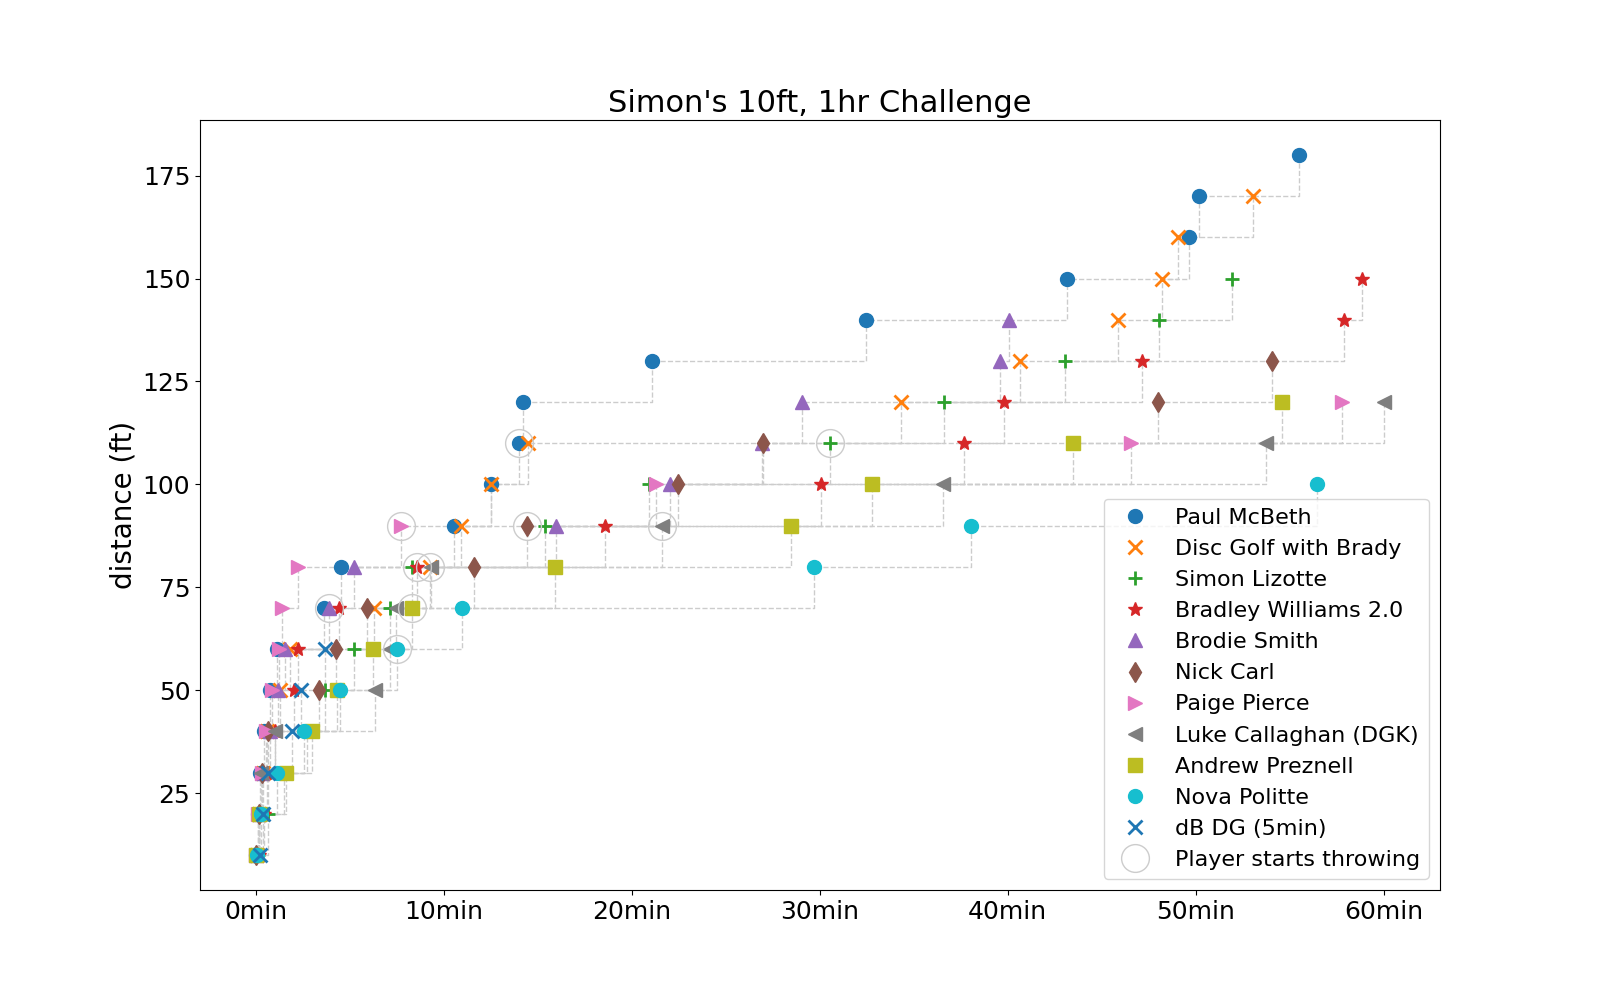
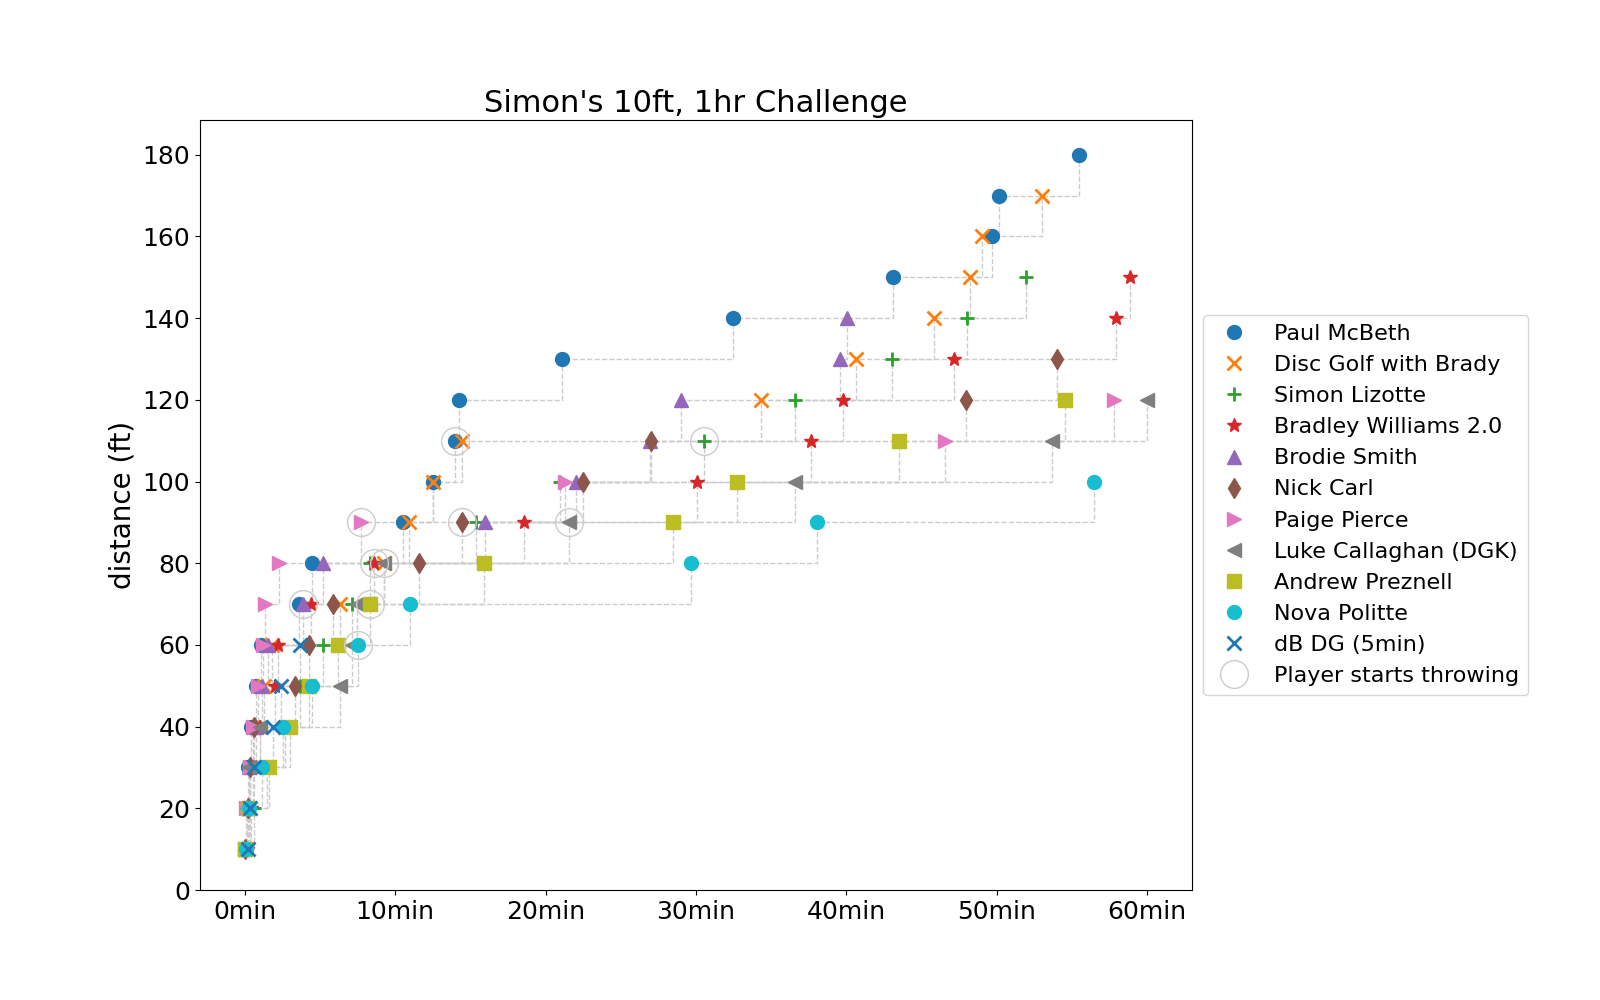
adjusts legend

diff --git a/plot.py b/plot.py
@@ -124,7 +124,9 @@ axis.xaxis.set_major_formatter(formatter)
 tick_spacing = 10 * 60
 axis.xaxis.set_major_locator(ticker.MultipleLocator(tick_spacing))
 axis.yaxis.set_ticks(range(0, 200, 20))
-axis.legend()
+box = axis.get_position()
+axis.set_position([box.x0, box.y0, box.width * 0.8, box.height])
+axis.legend(loc="center left", bbox_to_anchor=(1, 0.5))
 
 # Save.
 figure.set_size_inches(16, 10)
